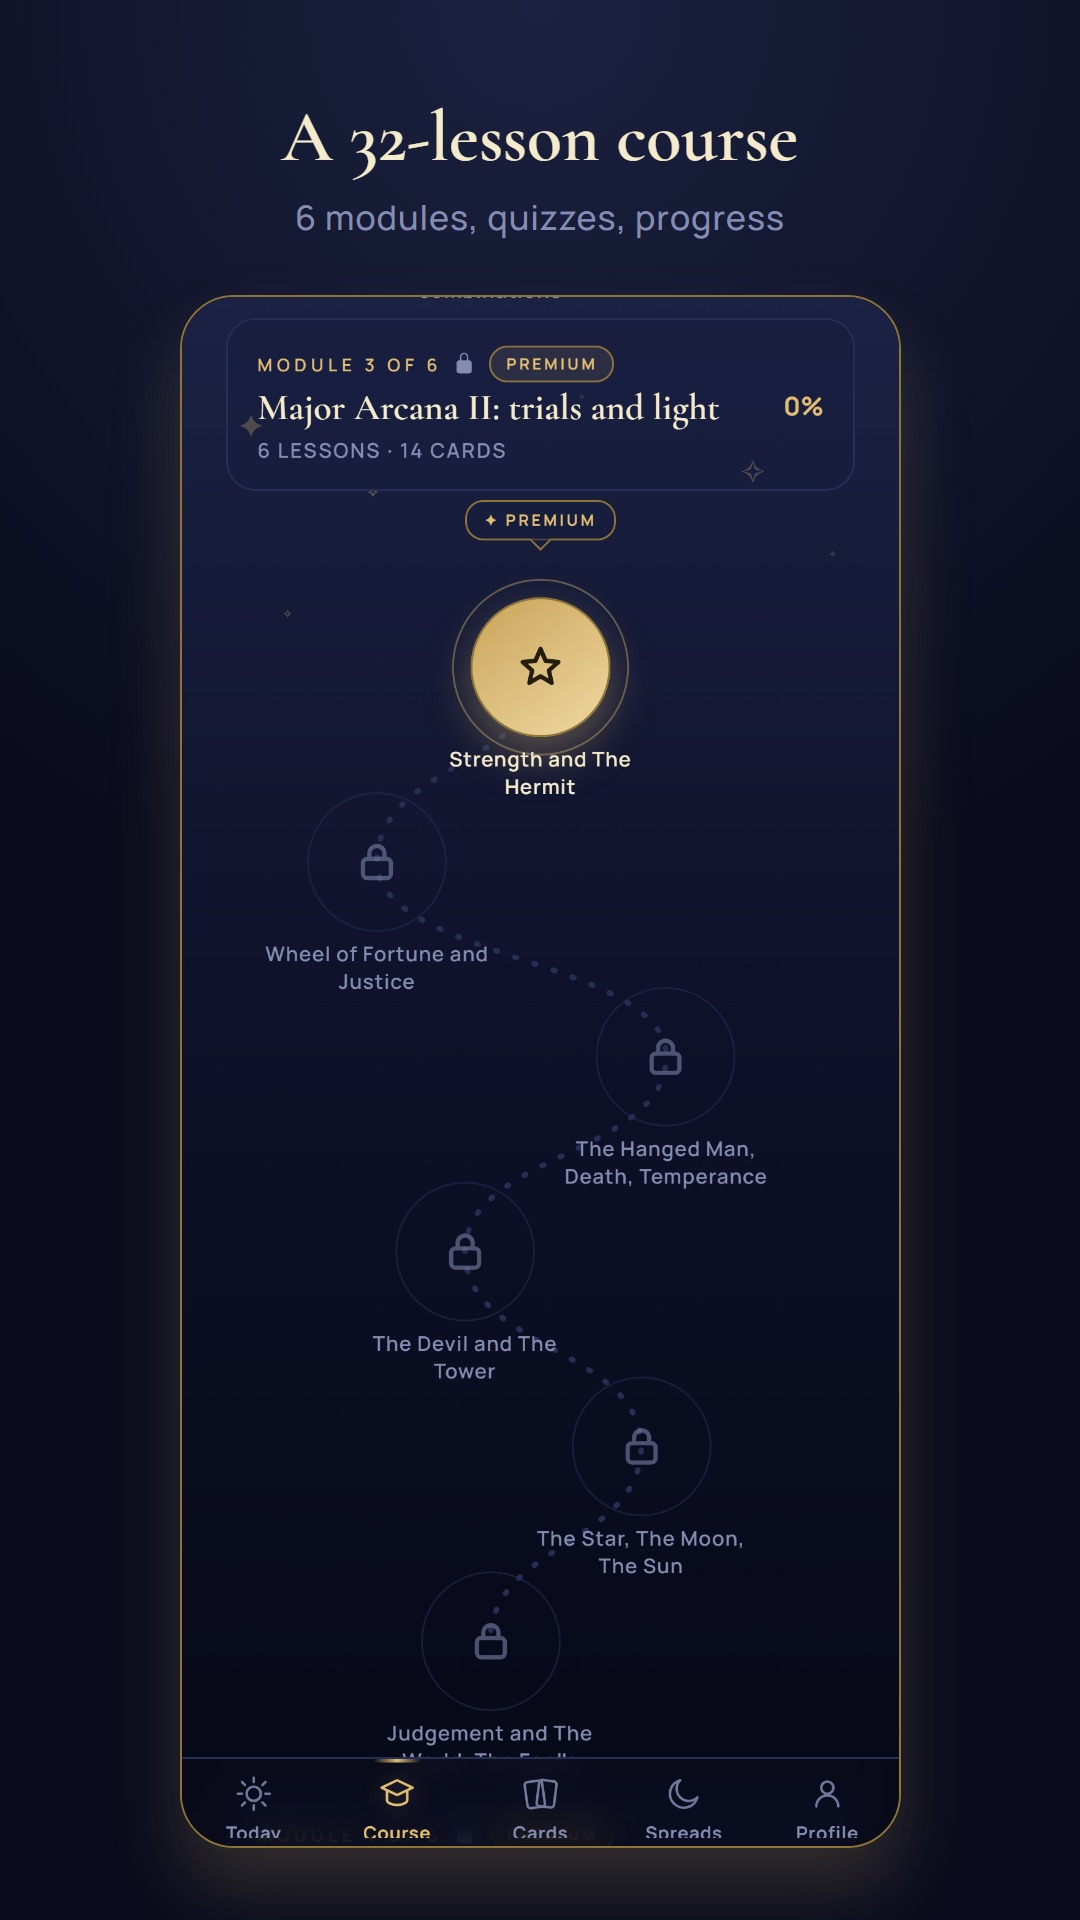
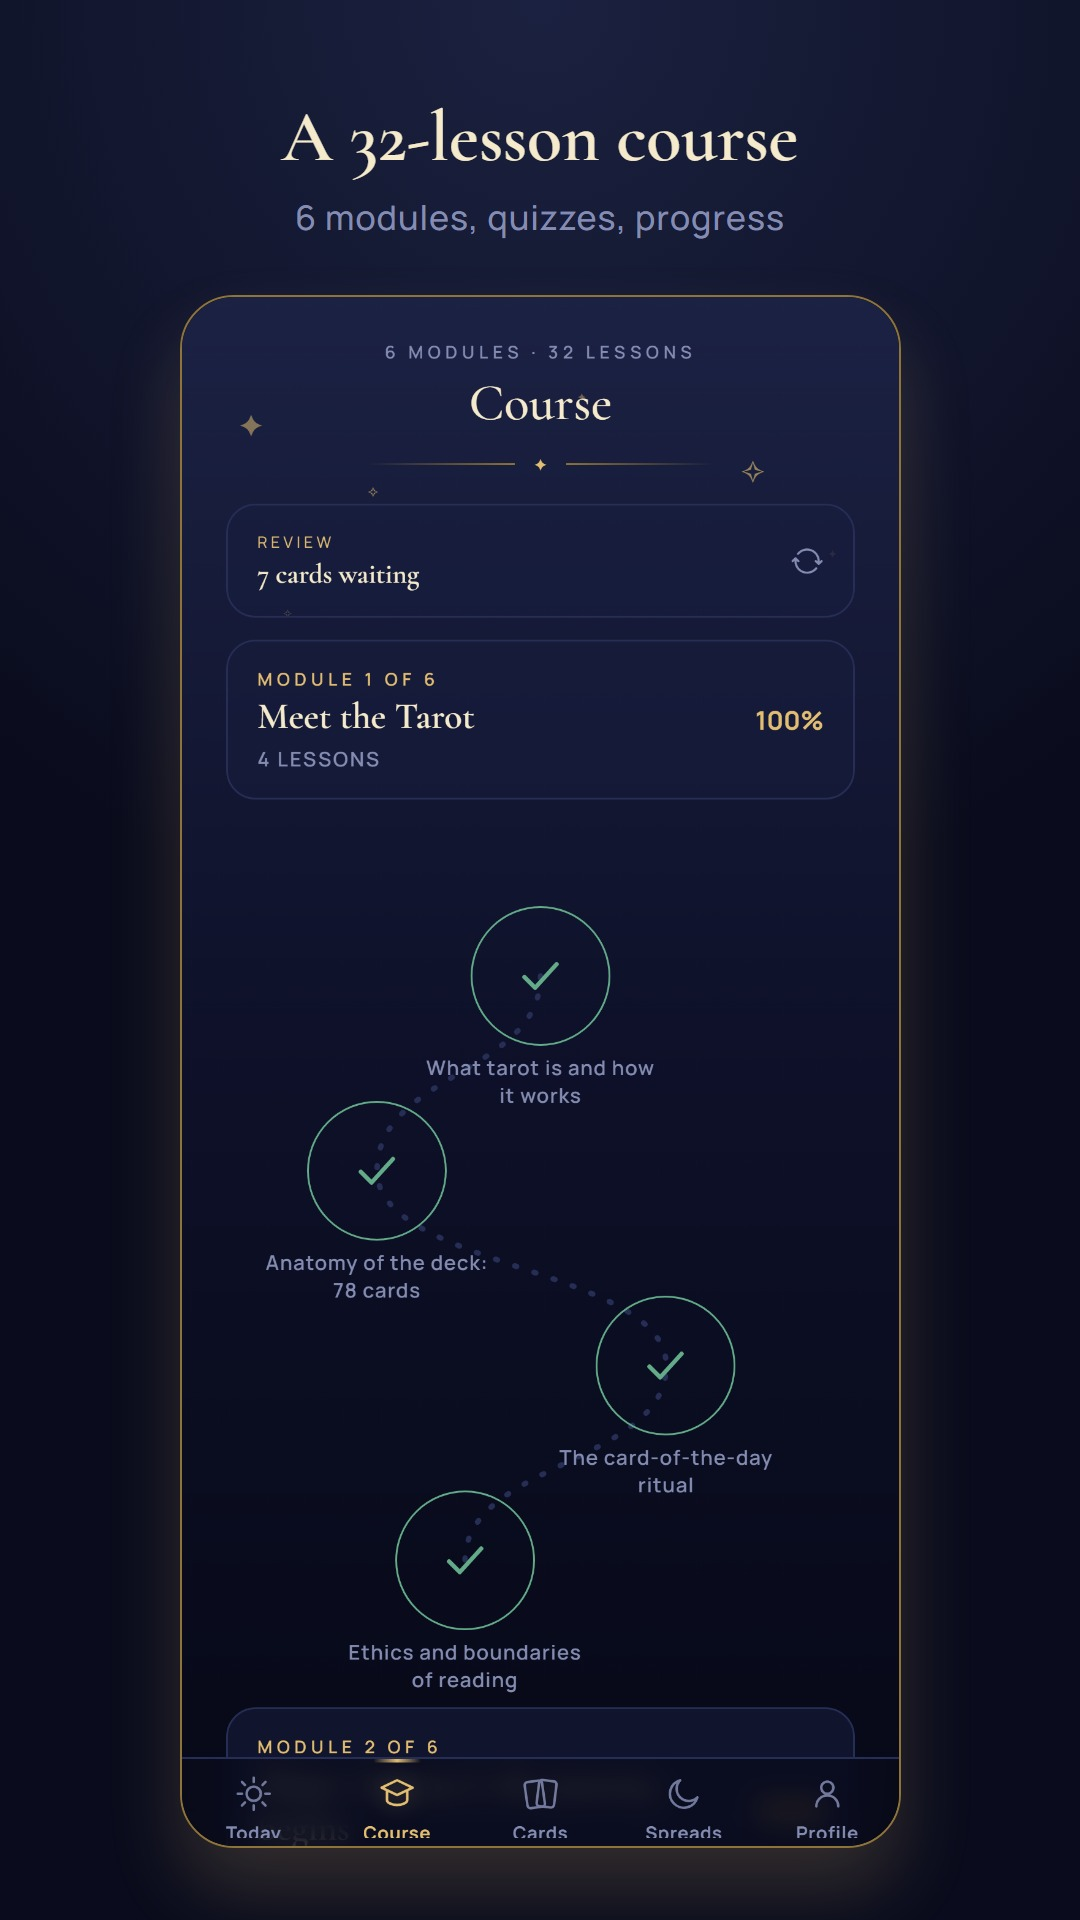
fix: правки ревью задачи 63 — диагностируемые маркеры, кадр курса с прогрессом (spec 63)

diff --git a/scripts/shoot_63.js b/scripts/shoot_63.js
@@ -52,19 +52,28 @@ const DETAIL_CARD = 'moon';
 const SPREAD_CARDS = ['empress', 'chariot', 'strength'];
 const DECK = ['fool', 'magician', 'high-priestess', 'empress', 'emperor', 'hierophant', 'chariot'];
 const M12 = ['m1l1', 'm1l2', 'm1l3', 'm1l4', 'm2l1', 'm2l2', 'm2l3', 'm2l4', 'm2l5', 'm2l6'];
+const ALL_LANGS = ['ru', 'en', 'es', 'pt']; // канонический порядок языков — как в i18n.ts
 for (const id of [DAY_CARD, DETAIL_CARD, ...SPREAD_CARDS, ...DECK]) {
   if (NUDITY.includes(id)) throw new Error(`карта ${id} из списка наготы — в витрину нельзя`);
   if (!cards.find((c) => c.id === id)) throw new Error(`карты ${id} нет в колоде`);
 }
+// то же самое для раскладов и модуля курса, которых спрашивают маркеры check() ниже: переименуют
+// расклад или пересоберут курс — тут упадёт со внятной причиной, а не «Cannot read properties of
+// undefined» посреди прогона (находка ревью 63/4 — там не было списка, крах ронял весь скрипт)
+const SPREAD_IDS = ['three-card', 'full-moon'];
+for (const id of SPREAD_IDS) {
+  if (!spreads.find((sp) => sp.id === id)) throw new Error(`расклада «${id}» нет в spreads.json`);
+}
+const COURSE_MODULE_INDEX = 0; // кадр «Курс» показывает модуль 1 (пройден целиком) — см. экран course
+if (!modules[COURSE_MODULE_INDEX]) throw new Error(`нет модуля с индексом ${COURSE_MODULE_INDEX} в course.json`);
 
 /** Строка i18n для языка: файл режется на языковые блоки по `  <lang>: {`, внутри блока —
  *  первый `key: "…"` после `      <section>: {`. Маркеры берутся из исходника, не из памяти. */
 function i18nText(lang, section, key) {
-  const order = ['ru', 'en', 'es', 'pt'];
-  const starts = order.map((l) => I18N.search(new RegExp(`^  ${l}: \\{`, 'm')));
+  const starts = ALL_LANGS.map((l) => I18N.search(new RegExp(`^  ${l}: \\{`, 'm')));
   if (starts.some((s) => s < 0)) throw new Error('не нашёл языковые блоки i18n.ts');
-  const i = order.indexOf(lang);
-  const chunk = I18N.slice(starts[i], i + 1 < order.length ? starts[i + 1] : undefined);
+  const i = ALL_LANGS.indexOf(lang);
+  const chunk = I18N.slice(starts[i], i + 1 < ALL_LANGS.length ? starts[i + 1] : undefined);
   const sec = chunk.search(new RegExp(`^      ${section}: \\{`, 'm'));
   if (sec < 0) throw new Error(`секции ${section} нет в блоке ${lang}`);
   const m = chunk.slice(sec).match(new RegExp(`\\b${key}: "([^"]+)"`));
@@ -73,6 +82,16 @@ function i18nText(lang, section, key) {
 }
 const cardName = (id, lang) => cards.find((c) => c.id === id).name[lang];
 const spreadName = (id, lang) => spreads.find((s) => s.id === id).name[lang];
+// прогресс модуля курса для кадра «Курс» — та же формула, что moduleProgress() в
+// src/lib/courseProgress.ts (не импортируем TS-модуль в голый node-скрипт, см. i18nText выше:
+// здесь принят тот же приём «читать из первоисточника», только первоисточник — сид, а не файл)
+const M12_SET = new Set(M12);
+const modulePct = (mod, doneIds) => {
+  const total = mod.lessons.length;
+  const done = mod.lessons.filter((l) => doneIds.has(l.id)).length;
+  return total === 0 ? 0 : Math.round((done / total) * 100);
+};
+const COURSE_PCT = modulePct(modules[COURSE_MODULE_INDEX], M12_SET);
 
 /** Дневник: сегодня (по пришпиленным часам) — Маг, четыре прошлых дня — серия 5 (форма shoot_56). */
 const JOURNAL = ['magician', 'high-priestess', 'empress', 'high-priestess', 'chariot'].map((cardId, i) => ({
@@ -116,10 +135,33 @@ const SCREENS = [
       ...((await text(page)).toUpperCase().includes(cardName(DAY_CARD, lang).toUpperCase()) ? [] : [`нет имени «${cardName(DAY_CARD, lang)}»`]),
     ] },
   { id: 'course', route: '/course',
+    // экран сам автоскроллит к ТЕКУЩЕМУ уроку (первый непройденный — «дырка» lessonStates),
+    // а в сиде это модуль 3: витрине такой кадр не годится (все узлы заперты, прогресса не
+    // видно, хвост модуля 2 обрезан сверху — находка ревью 63/4). Возвращаем скролл к началу,
+    // чтобы в кадр попал пройденный модуль 1 с прогрессом.
+    prepare: async (page) => {
+      await page.evaluate(() => {
+        const scroller = [...document.querySelectorAll('div')].find(
+          (el) => el.scrollHeight > el.clientHeight + 4 && /auto|scroll/.test(getComputedStyle(el).overflowY),
+        );
+        if (!scroller) throw new Error('не нашёл скролл-контейнер курса');
+        // scrollTo({behavior:'instant'}) на этом узле всё равно доигрывает CSS scroll-behavior:
+        // smooth (замерено — плавный откат от старой позиции к 0 растянут почти на 1.5с), поэтому
+        // снимаем smooth явно и двигаем свойством scrollTop — оно применяется мгновенно
+        scroller.style.scrollBehavior = 'auto';
+        scroller.scrollTop = 0;
+      });
+      await page.waitForTimeout(300);
+    },
     check: async (page, lang) => {
       const t = await text(page);
-      const m3 = modules[2].title[lang];
-      return t.includes(m3) ? [] : [`нет заголовка модуля 3 «${m3}»`];
+      const problems = [];
+      const m1 = modules[COURSE_MODULE_INDEX].title[lang];
+      if (!t.includes(m1)) problems.push(`нет заголовка модуля 1 «${m1}»`);
+      // признак пройденности: без lessonsProgress модуль 1 показал бы 0%, а не COURSE_PCT —
+      // маркер обязан упасть на сломанном состоянии (проверено мутацией, см. отчёт задачи)
+      if (!t.includes(`${COURSE_PCT}%`)) problems.push(`нет отметки прогресса модуля 1 (ожидали ${COURSE_PCT}%)`);
+      return problems;
     } },
   { id: 'detail', route: `/card/${DETAIL_CARD}`,
     check: async (page, lang) => [
@@ -171,6 +213,21 @@ const SCREENS = [
 if (Object.keys(captions.screens).join() !== SCREENS.map((s) => s.id).join()) {
   throw new Error('порядок экранов в captions.json не совпадает со списком SCREENS');
 }
+// полнота подписей на старте (находка ревью 63/4): без этой проверки неполный captions.json
+// молча кладёт на холст undefined вместо заголовка/подписи — и это не поймает даже глаз на
+// скриншоте языка, для которого пара действительно нашлась
+for (const s of SCREENS) {
+  for (const lang of ALL_LANGS) {
+    const pair = captions.screens[s.id]?.[lang];
+    const ok = Array.isArray(pair) && pair.length === 2 && pair.every((x) => typeof x === 'string' && x.trim());
+    if (!ok) throw new Error(`captions.json: нет пары «заголовок/подпись» для экрана «${s.id}», язык «${lang}»`);
+  }
+}
+for (const lang of ALL_LANGS) {
+  if (typeof captions.tagline?.[lang] !== 'string' || !captions.tagline[lang].trim()) {
+    throw new Error(`captions.json: нет tagline для языка «${lang}»`);
+  }
+}
 
 const text = (page) => page.locator('body').innerText();
 const visible = (page, sel) => page.locator(sel).first().isVisible().catch(() => false);
@@ -207,7 +264,16 @@ const fileUrl = (p) => 'file:///' + p.replace(/\\/g, '/');
       await app.waitForTimeout(1800);
       if ((await app.evaluate(() => window.innerWidth)) !== 390) throw new Error('вьюпорт не 390 — кадр недостоверен');
       if (s.prepare) await s.prepare(app);
-      const problems = await s.check(app, lang);
+      // check() опирается на данные контента (карты/расклады/модули/i18n) — не глушим ошибку
+      // молча, но и не роняем весь прогон: находка ревью 63/4 требует, чтобы упавшая проверка
+      // осталась диагностируемым кадром в failed, с языком и именем экрана в сообщении (tag
+      // уже несёт то и другое — см. failed.push ниже), а не обрывала цикл по всем языкам/экранам
+      let problems;
+      try {
+        problems = await s.check(app, lang);
+      } catch (e) {
+        problems = [`ИСКЛЮЧЕНИЕ в check(): ${e.message}`];
+      }
       if (problems.length) {
         failed.push(`${tag}: ${problems.join('; ')} (url ${app.url().replace(BASE, '')})`);
         console.log(`  ✗ ${tag}`);
